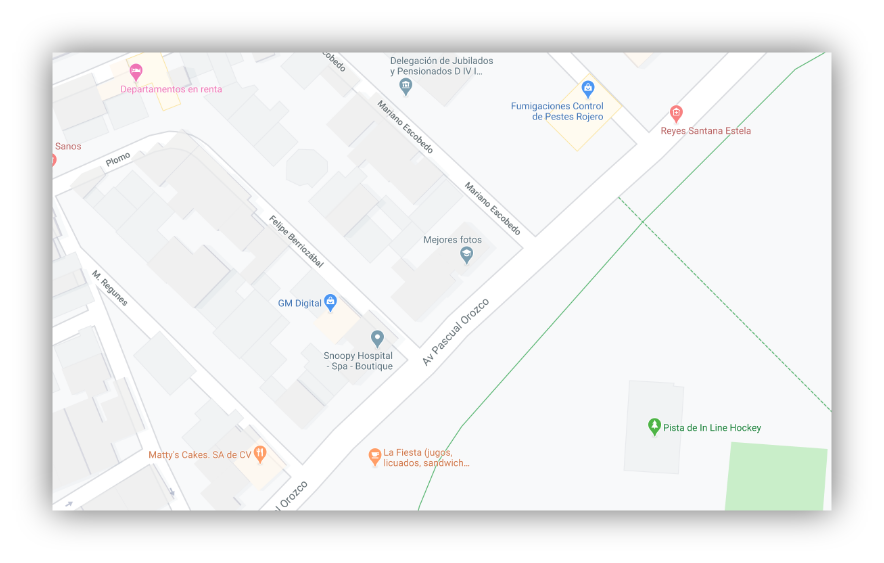
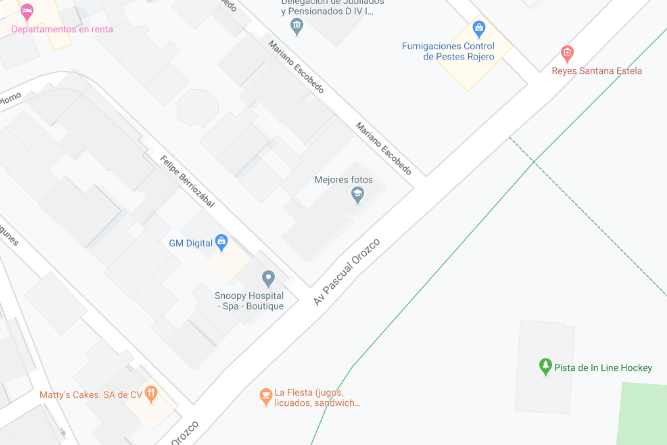
fixing size of ipad screen

diff --git a/src/styles/media.css b/src/styles/media.css
@@ -43,6 +43,9 @@
   .hero__buttons {
     margin: 10px;
   }
+  .aprende-mas a {
+    width: 50%;
+  }
   /*----------------------------------*/
   /*               Talleres           */
   /*----------------------------------*/
@@ -65,10 +68,14 @@
   }
   .encuentranos__maps {
     left: -200px;
-    top: 20px;
+    top: 40px;
+  }
+  .encuentranos__maps a {
+    width: inherit;
+    display: block;
   }
   .encuentranos__maps img {
-    width: 420px;
+    width: 400px;
   }
   .encuentranos__social {
     margin-left: 80px;

diff --git a/src/views/Home.vue b/src/views/Home.vue
@@ -211,10 +211,16 @@ export default {
 }
 .encuentranos__maps {
   position: relative;
-  left: -400px;
+  top: 40px;
+  left: -300px;
+}
+.encuentranos__maps img {
+  width: 600px;
+  box-shadow: 0 0 10px 0 gray;
 }
 .encuentranos__social {
   margin-left: 150px;
+  margin-top: 25px;
   color: white;
   display: flex;
   flex-direction: column;
@@ -236,7 +242,7 @@ export default {
   font-weight: bold;
   font-size: 18px;
   padding: 0;
-  margin: 0;
+  margin: 20px 0 0 0;
   color: white;
 }
 </style>
